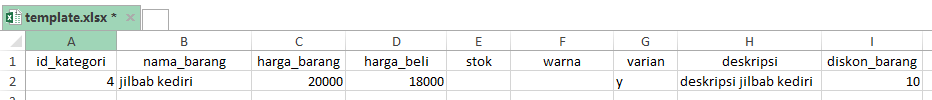
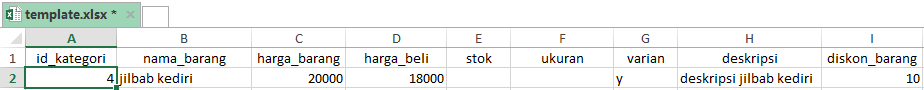
setting warna ke ukuran

diff --git a/resources/views/barang/importexcel.blade.php b/resources/views/barang/importexcel.blade.php
@@ -41,15 +41,15 @@
                                                <br><br>
                                                <img src="{{url('img/web/dvina2.PNG')}}"><br><br>
                                                <li>
-                                                   isi <b>nama_barang</b> dan <b>deskripsi</b> dengan format text, kemudian untuk <b>harga_barang</b>,<b>harga_beli</b>,<b>diskon_barang</b> isi dengan format angka, ingat, pastikan <b>diskon_barang</b> tidak lebih dari 99. Kosongkan stok dan warna pada barang utama. Untuk lebih jelas lihat gambar di bawah
+                                                   isi <b>nama_barang</b> dan <b>deskripsi</b> dengan format text, kemudian untuk <b>harga_barang</b>,<b>harga_beli</b>,<b>diskon_barang</b> isi dengan format angka, ingat, pastikan <b>diskon_barang</b> tidak lebih dari 99. Kosongkan stok dan ukuran pada barang utama. Untuk lebih jelas lihat gambar di bawah
                                                </li><br>
                                                <img src="{{url('img/web/dvina3.PNG')}}"><br><br>
                                                <li>
-                                                   Selanjutnya varian, varian hanya dapat di isi dengan huruf <b>y</b> atau <b>n</b> dan pastikan huruf kecil, huruf <b>y</b> digunakan untuk barang utama sedangkan <b>n</b> digunakan untuk variasi warna barang utama, pastikan variasi barang memiliki data <b>nama_barang</b>, <b>harga_beli</b>, <b>stok</b>, <b>warna</b> dan <b>varian(n)</b> kosongkan data lain selain data tersebut. <b>nama_barang</b> pada varian adalah nama barang di tambah warna, ini bersifat wajib. untuk lebih jelas lihat contoh berikut
+                                                   Selanjutnya varian, varian hanya dapat di isi dengan huruf <b>y</b> atau <b>n</b> dan pastikan huruf kecil, huruf <b>y</b> digunakan untuk barang utama sedangkan <b>n</b> digunakan untuk variasi ukuran barang utama, pastikan variasi barang memiliki data <b>nama_barang</b>, <b>harga_beli</b>, <b>stok</b>, <b>ukuran</b> dan <b>varian(n)</b> kosongkan data lain selain data tersebut. <b>nama_barang</b> pada varian adalah nama barang di tambah ukuran, ini bersifat wajib. untuk lebih jelas lihat contoh berikut
                                                </li><br>
-                                               <img src="{{url('img/web/dvina4.PNG')}}"><br><br>
+                                               <img src="{{url('img/web/dvina4.PNG')}}" width="98%"><br><br>
                                                <div class="alert alert-warning">
-                                                dari gambar di atas menunjukan bahwa barang <b>kerudung kediri</b> memiliki variasi warna : merah & biru kemudian <b>kerudung malang</b> tidak memiliki warna lain kecuali putih.
+                                                dari gambar di atas menunjukan bahwa barang <b>jilbab kediri</b> memiliki variasi ukuran : M & XL, <b>kaos putih polos</b> memiliki ukuran M & S.
                                                </div><br>
                                                <li>Kemudian save <b>template.xlsx</b> dan upload di tab paling bawah yaitu <b>upload file</b>, jangan lupa setelah proses upload selesai tambahkan gambar pada barang-barang tersebut </li><br>
                                                <div class="alert alert-danger">

diff --git a/resources/views/barang/edit.blade.php b/resources/views/barang/edit.blade.php
@@ -52,7 +52,7 @@
                                 <input type="hidden" name="kode_barang" value="{{$kode}}">
                                 <input type="hidden" name="jumlah_file" value="{{4-$jumlah_foto}}">
                                 <label>Foto</label>
-                                <input type="file" class="form-control" name="photo[]" multiple required>
+                                <input type="file" class="form-control" name="photo[]" multiple required accept="image/*">
                                 <p class="help-block">*Foto Tidak Boleh Lebih Dari {{4-$jumlah_foto}} File</p>
                             </div>
                             @if (session('errorfoto'))
@@ -142,15 +142,15 @@
                     </div>
                     <div class="panel panel-default">
                         <div class="panel-heading">
-                           <h4>Edit Variasi Warna & Stok</h4>
+                           <h4>Edit Variasi Ukuran & Stok</h4>
                         </div>
                         <!-- /.panel-heading -->
                         <div class="panel-body">
                             <div>
                               <form class="form-inline" action="{{url('/barang/warna')}}" method="post">
                                 <div class="form-group">
-                                  <label for="email">Warna:</label>
-                                  <input type="text" class="form-control" placeholder="Masukan Warna" name="warna" required>
+                                  <label for="email">Ukuran:</label>
+                                  <input type="text" class="form-control" placeholder="Masukan Ukuran" name="warna" required>
                                 </div>
                                 <div class="form-group">
                                   <label for="pwd">Stok:</label>
@@ -175,7 +175,7 @@
                                     <thead>
                                         <tr>
                                             <th>#</th>
-                                            <th>Warna</th>
+                                            <th>Ukuran</th>
                                             <th>Stok</th>
                                             <th>Aksi</th>
                                         </tr>

diff --git a/resources/views/barang/create.blade.php b/resources/views/barang/create.blade.php
@@ -78,7 +78,7 @@
                                         </div>
                                         <div class="form-group">
                                             <label>Foto</label>
-                                            <input type="file" class="form-control" name="photo[]" multiple required  accept="image/*">
+                                            <input type="file" class="form-control" name="photo[]" multiple required accept="image/*">
                                             <p class="help-block">*Foto Tidak Lebih Dari 4 File</p> 
                                         </div>
                                          @if (session('errorfoto'))
@@ -123,7 +123,7 @@
                                        <div id="newlink">
                                         <div class="row">
                                         <div class="col-md-6 form-group">
-                                        <label>Warna</label>
+                                        <label>Ukuran</label>
                                         <input type="text" name="warna[]" value="" class="form-control" required>
                                         </div>
                                         <div class="col-md-6 form-group">
@@ -167,7 +167,7 @@
             <hr>
              <div class="row">
                                         <div class="col-md-6 form-group">
-                                        <label>Warna</label>
+                                        <label>Ukuran</label>
                                         <input type="text" name="warna[]" value="" class="form-control" required>
                                         </div>
                                         <div class="col-md-6 form-group">

diff --git a/resources/views/frontend/singleproduk.blade.php b/resources/views/frontend/singleproduk.blade.php
@@ -177,10 +177,10 @@
                                     
                                     <form action="/tambahkeranjang" method="post" class="cart form-horizontal" >
                                         <div class="form-group">
-                                            <label class="control-label col-sm-2">Warna </label>
+                                            <label class="control-label col-sm-2">Ukuran </label>
                                             <div class="col-sm-10">
                                                 <select name="warna" class="form-control" placeholder="pilih warna">
-                                                <option selected disabled hidden>pilih warna</option>
+                                                <option selected disabled hidden>pilih ukuran</option>
                                                 @php 
                                                 $warnas = DB::table('tb_barangs')
                                                         ->where('kode',$barang->kode_barang)

diff --git a/app/Imports/BarangImport.php b/app/Imports/BarangImport.php
@@ -49,7 +49,7 @@ class BarangImport implements ToCollection, WithHeadingRow
                 DB::table('tb_barangs')->insert([
                 'kode'=> $newkode,
                 'stok' => 0,
-                'warna' => $row['warna'],
+                'warna' => $row['ukuran'],
                 'barang_jenis'=>$row['nama_barang']
                 ]);
             $id = DB::getPdo()->lastInsertId();
